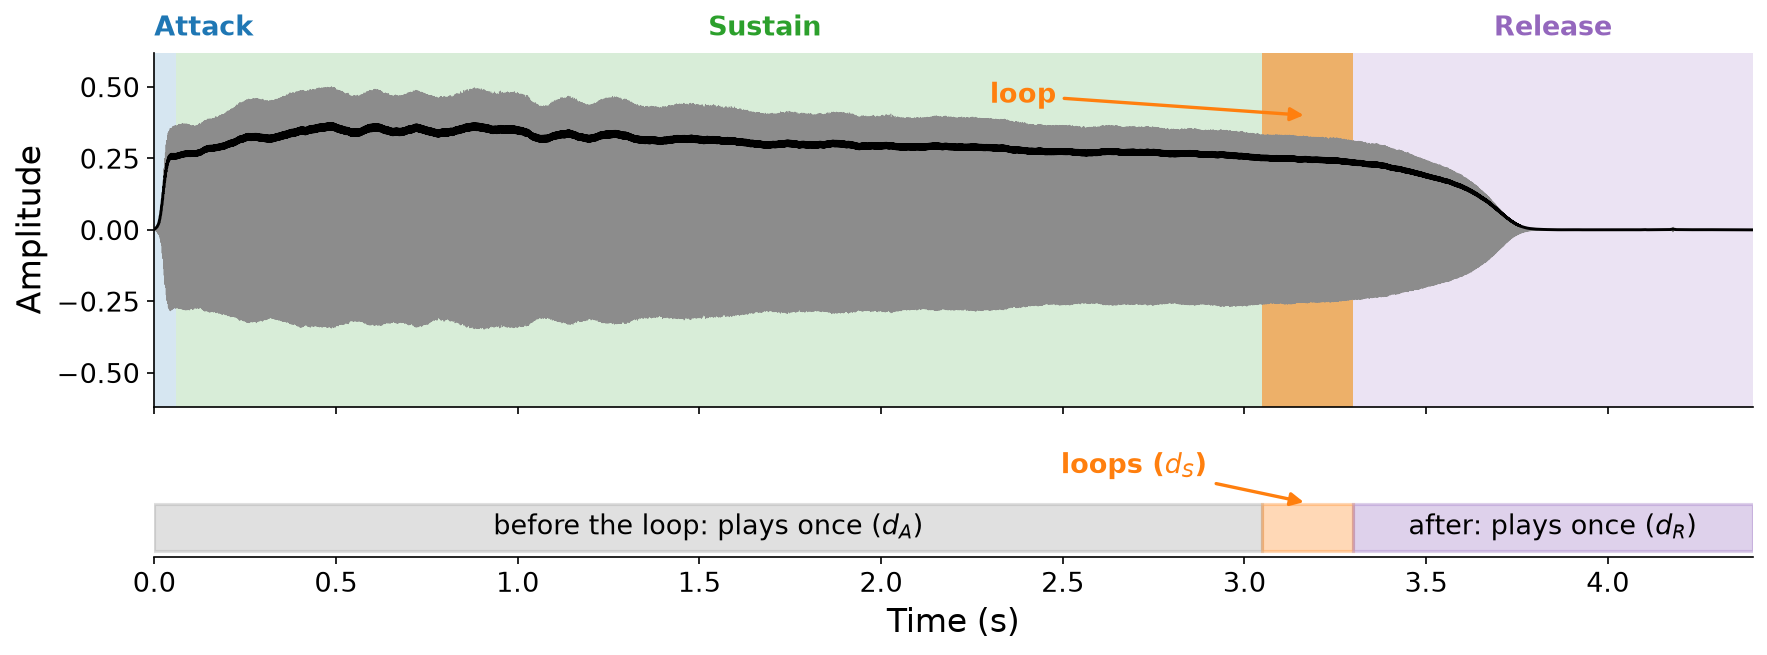
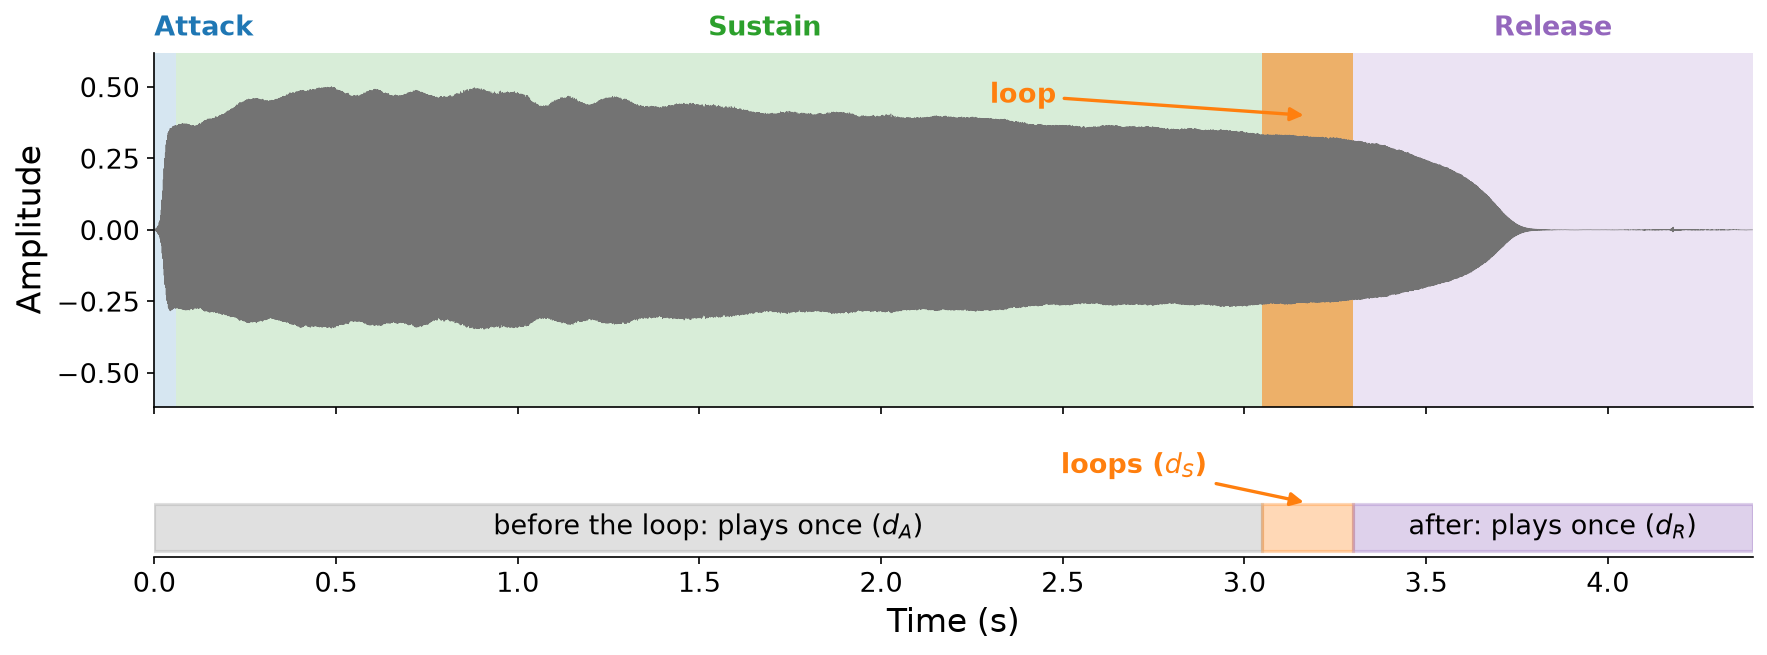
(Chris) edits

Changed region(s): [[0.0623, 0.1221, 0.996, 0.5191]]

diff --git a/11-sampled-synthesis/figures/make_figures.py b/11-sampled-synthesis/figures/make_figures.py
@@ -298,8 +298,6 @@ def default_loop() -> tuple[float, float]:
 def fig_sax_phases(c5: np.ndarray) -> None:
     """The C5 note's phases, and how sample-based synthesis plays them."""
     t = np.arange(len(c5)) / F_S
-    k = int(0.01 * F_S)
-    env = np.sqrt(2 * np.convolve(c5 ** 2, np.ones(k) / k, mode="same"))
     t_s, t_e = default_loop()
     T = t[-1]
 
@@ -317,8 +315,7 @@ def fig_sax_phases(c5: np.ndarray) -> None:
     ax.annotate("loop", xy=((t_s + t_e) / 2, 0.40), xytext=(t_s - 0.75, 0.47),
                 fontsize=13, color=ORANGE, fontweight="bold", va="center",
                 arrowprops=dict(arrowstyle="-|>", color=ORANGE, lw=1.6))
-    ax.plot(t, c5, color="0.55", lw=0.3)
-    ax.plot(t, env, color="black", lw=1.4)
+    ax.plot(t, c5, color="0.45", lw=0.3)
     ax.set_ylabel("Amplitude")
     ax.set_ylim(-0.62, 0.62)
 

diff --git a/11-sampled-synthesis/index.md b/11-sampled-synthesis/index.md
@@ -10,33 +10,37 @@ For our first topic, we will examine {vocab}`sampling` and {vocab}`sample-based 
 
 :::{admonition} "Sampling" is overloaded
 :class: warning
-So far in this book, "sampling" has been shorthand for _digital_ sampling, the step of analog-to-digital conversion that measures a signal $f_s$ times per second ({ref}`Chapter 7 <sec-sampling-and-frequency>`). Likewise, a "sample" has referred to a single audio sample $x[n]$. In this chapter, "sampling" takes on its colloquial meaning: lifting a chunk of audio from one source and reusing it in another context, often with some manipulation. Similarly, a "sample" now refers to a _clip_ of audio, not an individual audio sample. When the distinction matters, we will write "audio sample" for $x[n]$.
+So far in this book, "sampling" has been shorthand for _digital_ sampling, the step of analog-to-digital conversion that measures a signal $f_s$ times per second ({ref}`Chapter 7 <sec-sampling-and-frequency>`). Likewise, a "sample" has referred to a single audio sample $x[n]$.
+
+In this chapter, "sampling" takes on its colloquial meaning: lifting a _clip_ of audio from one source and reusing it in another context, often with some manipulation. Similarly, a "sample" now refers to a clip of audio, not an individual audio sample. When the distinction matters, we will write "audio sample" for $x[n]$.
 :::
 
-We will cover two use cases:
+We will cover two use cases for sampling:
 
 1. **Sampling and sequencing**: extracting samples from recordings and playing them back in new orders and with new timing.
 1. **Sample-based synthesis**: combining recorded samples with _repitching_ to create instruments that can play any pitch.
 
 ## Sampling
 
-We first define precisely what we mean by a sample. Put simply, a sample is a contiguous chunk of audio samples extracted from some source recording.
+We first define precisely what we mean by a sample: a contiguous chunk of audio samples extracted from some source recording.
 
 :::{prf:definition} Sample
 :label: def-sample
-Let $\mathbf{x} = [x[0], x[1], \ldots, x[N-1]]$ be source digital audio at sample rate $f_s$. A _sample_ of $\mathbf{x}$ is a contiguous chunk
+Let $\mathbf{x} = [x[0], x[1], \ldots, x[N-1]]$ be source digital audio at sample rate $f_s$ of length $N$ samples. A _sample_ of $\mathbf{x}$ is a contiguous chunk
 
-$$\mathbf{y} = [x[m], x[m+1], \ldots, x[m+M-1]]$$
+$$[~x[m], x[m+1], \ldots, x[m+M-1]~]$$
 
-of length $M \in \{1, \ldots, N\}$ audio samples, starting at offset $m \in \{0, 1, \ldots, N - M\}$.
+of length $M \leq N$ audio samples, starting at offset $m \in \{0, 1, \ldots, N - M\}$.
 :::
 
-In units of seconds, the sample starts $\frac{m}{f_s}$ seconds into the recording and lasts $\frac{M}{f_s}$ seconds. The upper limit on the offset $m$ keeps the sample inside the recording. Its last audio sample is $x[m + M - 1]$, which exists only if $m + M - 1 \leq N - 1$, that is, if $m \leq N - M$.
+In units of seconds, the sample starts $\frac{m}{f_s}$ seconds into the recording and lasts $\frac{M}{f_s}$ seconds.
 
-We have seen operations like this before. When we extracted {ref}`frames <sec-extracting-frames>` for frame-based processing and {ref}`granular synthesis <sec-granular-synthesis>` in [Chapter 10](../10-frame-proc), each frame was also a contiguous chunk of audio samples. The key difference is _how_ we choose $m$ and $M$. In frame-based processing, they are determined procedurally: the offsets are multiples of the hop length $N_H$, and every frame has the same frame length $N_F$. When sampling, by contrast, a person chooses $m$ and $M$ (the start time and duration of the sample) to capture something musically meaningful, like a single drum hit or a memorable phrase. They typically make this choice _by ear_, or visually by looking at the waveform.
+We have seen operations like this before. When we extracted {ref}`frames <sec-extracting-frames>` for frame-based processing and {ref}`granular synthesis <sec-granular-synthesis>` in [Chapter 10](../10-frame-proc), each frame was also a contiguous chunk of audio samples.
+
+The key difference is _how_ we choose $m$ and $M$. In frame-based processing, they are determined procedurally: the offsets are multiples of the hop length $N_H$, and every frame has the same frame length $N_F$. When sampling, by contrast, a person chooses $m$ and $M$ (the start time and duration of the sample) to capture something musically meaningful, like a single drum hit or a memorable phrase. They typically make this choice _by ear_, or visually by looking at the waveform.
 
 :::{margin} The Amen break
-The Amen break is a seven-second drum solo, played by Gregory C. Coleman on The Winstons - _Amen, Brother_ (1969). Starting with hip-hop in the late 1980s, producers sampled it relentlessly, and it became the rhythmic backbone of entire genres like jungle and drum and bass. It is often called the most sampled recording in history, appearing in thousands of tracks. Yet neither Coleman nor the band's leader, Richard L. Spencer, ever received royalties for its use.
+The Amen break is a seven-second drum solo, played by Gregory C. Coleman on The Winstons - _Amen, Brother_ (1969). Starting with hip-hop in the late 1980s, producers sampled it relentlessly, and it became the rhythmic backbone of entire genres like jungle and drum and bass. It is often called the most sampled recording in history, appearing in thousands of tracks.
 :::
 
 Try it yourself below, using one of the most famous samples of all time: the _Amen break_. Choose an offset $\frac{m}{f_s}$ and a duration $\frac{M}{f_s}$ (both in seconds), and use the zoom to inspect the waveform up close. The audio card updates whenever you release a slider. Can you isolate a single snare drum hit? How about exactly one bar (four beats) of the break?
@@ -46,7 +50,9 @@ Try it yourself below, using one of the most famous samples of all time: the _Am
 
 ### Extracting samples in Pyquist
 
-In Pyquist, extracting a sample is a one-liner. We can work in units of _seconds_ with {pyquist}`Audio.segment`, whose `offset` and `duration` arguments correspond to $\frac{m}{f_s}$ and $\frac{M}{f_s}$. Or we can work in units of _audio samples_ by slicing an {pyquist}`Audio` directly with `audio[m:m + M]`, just like a NumPy array. Below, we extract the second bar of the Amen break both ways. Each beat of the break lasts about $0.436$ seconds, so the second bar starts $4 \times 0.436 = 1.744$ seconds into the recording and lasts just as long:
+In `pyquist`, extracting a sample is a one-liner. We can work in units of _seconds_ with {pyquist}`Audio.segment`, whose `offset` and `duration` arguments correspond to $\frac{m}{f_s}$ and $\frac{M}{f_s}$. Or we can work in units of _audio samples_ by slicing an {pyquist}`Audio` directly with `audio[m:m + M]`, just like a NumPy array.
+
+Below, we extract the second bar of the Amen break both ways. Each beat of the break lasts about $0.436$ seconds, so the second bar starts $4 \times 0.436 = 1.744$ seconds into the recording and lasts just as long:
 
 :::{interactive}[notebooks/extract-samples.ipynb]
 :::
@@ -55,24 +61,30 @@ Both approaches extract the same $M = 76{,}910$ audio samples. Use whichever uni
 
 ## Sequencing
 
-What can we do with samples once we have them? A primary use case is {vocab}`sequencing`: playing samples back in different orders, or with different timing, than in their original recordings. Sequencing is a cornerstone of rhythm production in genres like hip-hop and electronic dance music, where producers build new beats out of fragments of old ones.
+What can we do with samples once we have them? A primary use case is {vocab}`sequencing`: playing samples back in different orders, or with different timing, than in their original recordings. Sequencing is a cornerstone of rhythm production in genres like hip-hop and electronic dance music, where producers build new melodies and beats out of fragments of old ones.
 
-Pyquist's scores make sequencing natural. Recall from {ref}`Chapter 4 <def-render>` that rendering a score calls an _instrument_ function once per event, shifts each result to the event's onset time, and sums them all up. Nothing requires an instrument to synthesize its output from scratch. A function that simply returns a sample is a perfectly good instrument, so a sequence of samples is just a score.
+CLAUDE: change this to directive to link to `Score` object
+Pyquist's scores are a natural fit for sequencing. Recall from {ref}`Chapter 4 <def-render>` that rendering a score calls an _instrument_ function once per event, shifts each result to the event's onset time, and sums them all up. There is no requirement that this function synthesize its output audio from scratch. A function that simply returns a sample is a perfectly good "instrument", so a sequence of samples is just a score. Below, we highlight a couple examples of sequencing using `pyquist` scores.
 
 ### Chopping the Amen break
 
-Our first sequencer rearranges the beats of the Amen break, a practice known as _chopping_. The break lasts 16 beats, each about $0.436$ seconds long. We start with an instrument, `amen_sample(offset, duration)`, that extracts a sample of the break with {pyquist}`Audio.segment`. Cutting a sample out of the middle of a recording can leave abrupt edges, which we hear as clicks. So the instrument also applies a very short piecewise-linear envelope, as in [Chapter 4](../04-score-timbre), that fades in over $1$ ms and fades out over $1$ ms.
+CLAUDE: don't emphasize _chopping_ as vocab, just use it colloquially. also, this is a good time to formally introduce the concept of beats, which we haven't really covered. be succinct about this. a _beat_ (use unit directive) is a symbolic unit of time in music, referring to the underlying pulse (i.e., what you might tap your foot to). beats are particularly expressed in units of beats per minute. here we convert that to seconds per beat. (use unit directives throughout, see section 1.2 for example of the flavor of unit arithmetic I'm expecting to see, no need to do the strikethrough though)
+
+Our first sequencer rearranges the beats of the Amen break, a practice known as _chopping_. The break lasts 16 beats, each about $0.436$ seconds long. We start with an instrument, `amen_sample(offset, duration)`, that extracts a sample of the break with {pyquist}`Audio.segment`, allowing us to control samples with score `Event`s of the form `(2.0, {"offset": 0.0, "duration": 1.0})`. Cutting a sample out of the middle of a recording can leave abrupt edges, which we hear as clicks. So the instrument also applies a very short piecewise-linear envelope, as in [Chapter 4](../04-score-timbre), that fades in over $1$ ms and fades out over $1$ ms.
 
 As a sanity check, a score with one event per beat, each playing that same beat, should reproduce the original break. Then `amen_chop(hits, speed, seed)` builds a new score that plays randomly chosen beats instead, one every $\frac{0.436}{\text{speed}}$ seconds:
 
 :::{interactive}[notebooks/amen-chops.ipynb]
 :::
 
-At a speed of $1.5$, a new hit arrives every $0.29$ seconds, so each hit plays only the first two thirds of its beat. Try other seeds, numbers of hits, and speeds. Breakbeats chopped like this, the Amen break above all, are the signature sound of jungle and drum and bass.
+CLAUDE: note that I changed the speed to something more appropriate for jungle, so update this accordingly. remark on the new BPM as well, following the unit overview above
+At a speed of $1.5$, a new hit arrives every $0.29$ seconds, so each hit plays only the first two thirds of its beat. Try other seeds, numbers of hits, and speeds. Breakbeats chopped like this, the Amen break above all, are the signature sound of [jungle](https://en.wikipedia.org/wiki/Jungle_music) and [drum and bass](https://en.wikipedia.org/wiki/Drum_and_bass).
 
 ### A drum machine
 
-Our second sequencer is a {vocab}`drum machine`. Its interface is a grid of _steps_: each row is a drum sound, each column is a moment in time, and the musician switches individual cells on or off. We can mimic this interface with a few lines of text, where an `X` switches a cell on:
+Our second sequencer is a {vocab}`drum machine`. Its interface is a grid of _steps_: each row is a drum sound, each column is a moment in time corresponding to a subdivision of a beat, and the musician switches individual cells on or off.
+
+In the Python example below, we crudely mimic a typical drum machine interface with a few lines of text, where an `X` switches a cell on:
 
 ```text
 X-X-X-X-X-X-X-X-
@@ -80,27 +92,34 @@ X-X-X-X-X-X-X-X-
 X-------X-------
 ```
 
-Here, the top row is a hi-hat, the middle row is a snare drum, and the bottom row is a kick drum. The function `ascii_to_score` turns such a grid into a score, adding an event at time $j$ for every `X` in column $j$, with the Freesound ID of that row's sound as its only parameter. Our instrument, `freesound(fsid)`, simply returns the corresponding sound. It fetches the sound with {pyquist}`fetch_freesound`, which normally requires a Freesound API key, but this book ships with copies of all three sounds.
+The function `ascii_to_score` turns such a grid into a `Score` object, adding an event at time $j$ for every `X` in column $j$, with the Freesound ID of that row's sound as its only parameter. Our instrument, `freesound(fsid)`, simply fetches and returns the corresponding sound.
 
+CLAUDE: make this consistent w/ the info above about beats. again, concise; don't ramble on at length about beats.
 So far, the times in our scores have always been in seconds. A drum machine instead counts time in steps, so we render the score with a {pyquist}`BasicMetronome`, which converts score times to seconds at a fixed tempo measured in beats per minute (BPM). The columns of a drum machine are typically _sixteenth notes_, four steps per beat. So to play our grid at a tempo of $120$ BPM, the metronome must count $4 \times 120 = 480$ steps per minute, or one step every $125$ ms:
 
+CLAUDE: note that I changed the hi hat sound here. may need to cache it? although I think it already cached, can you git add (stage) the correct subset of assets here? i now have more on my local machine than I would need
 :::{interactive}[notebooks/drum-machine.ipynb]
 :::
 
 Try editing the pattern: move the snare drum, add more kick drums, or change the tempo.
 
+CLAUDE: update this!
 Drum sounds from Freesound: hi-hat [332372](https://freesound.org/s/332372/) by soneproject, License: [CC0](http://creativecommons.org/publicdomain/zero/1.0/). Snare drum [46709](https://freesound.org/s/46709/) by boney-man, License: [Attribution 3.0](http://creativecommons.org/licenses/by/3.0/). Kick drum [673512](https://freesound.org/s/673512/) by TheEndOfACycle, License: [CC0](http://creativecommons.org/publicdomain/zero/1.0/).
 
 ## Sample-based synthesis
 
-Synthesis techniques like {ref}`frequency modulation <sec-frequency-modulation>` were motivated in part by the goal of producing realistic imitations of musical instruments. This turns out to be extremely difficult! As we saw with the trumpet in [Chapter 6](../06-modulation), the harmonics of real instruments evolve in intricate ways over the course of every note. Decades of synthesis research have produced countless compelling sounds, but few that a listener would mistake for the real thing.
+CLAUDE: at a high-level, organization is quite rough here. there are two ideas we want to convey: (1) the idea of recording samples of real instruments as an alternative to computer music synthesis methods, (2) the idea of manipulating those samples if we want to synthesize expressive parameters that we haven't pre-recorded. the transition / connection between them is memory: samples cost memory, and combinatorically more so to record all possible combinations of synthesis parameters (pitch, duration, amplitude, etc.). even w/ memory relatively cheap by modern standards, the combinatorics still make this prohibitively expensive. let's introduce each of those ideas in turn to clean up the exposition here. also, let's include a figure of each. for figure of the first point, compare additive synthesis + envelope recreation of clarinet (see pcm-04-clarinet.ipynb for my attempt, don't include that code just the final audio result) to real clarinet `356904`, w/ expressive parameters pitch=A#5 and duration=6 seconds. include both audio and waveform plots. for second figure, create an image figure with a small 2D grid: rows are durations [1,3,6,9] seconds and columns are pitches w/ A#5 in the middle. cell is either a waveform plot (indicating that we've pre-recorded that combination) or a question mark, indicating that we haven't pre-recorded. put the waveform for the example from the first figure in there, and maybe a couple others, but leave the others as question amrks. point is to emphasize the combinatoric space of possibilities. at some point, explicitly define vocab _sample-based synthesis_: the idea of pre-recording musical material, and applying manipulations on-the-fly to change its expressive parameters
 
+CLAUDE: 
 :::{margin} A brief history
-Sample-based synthesis predates digital audio. Pierre Schaeffer, a pioneer of _musique concrète_, built the _phonogène_, a tape machine whose keyboard changed the playback speed of a tape loop, and with it the pitch. Instruments like the Mellotron later put this idea into mass production. The Fairlight CMI (1979), the first commercially available digital sampler, was marketed as a way to play realistic sounds, like a piano, that the synthesizers of the day could not produce. Memory was scarce: each voice had just 16 kilobytes for its 8-bit samples, at most about two seconds of audio.
+Sample-based synthesis predates both digital audio and sampling. Pierre Schaeffer, a pioneer of [_musique concrète_](https://en.wikipedia.org/wiki/Musique_concr%C3%A8te#The_phonog%C3%A8ne), built the _phonogène_, a tape machine whose keyboard changed the playback speed of a tape loop, and with it the pitch. Instruments like the [Mellotron](https://en.wikipedia.org/wiki/Mellotron) later put this idea into mass production. The [Fairlight CMI](https://en.wikipedia.org/wiki/Fairlight_CMI) (1979), the first commercially available digital sampler, was marketed as a way to play realistic sounds, like a piano, that the synthesizers of the day could not produce. Memory was scarce: each voice had just 16 kilobytes for its 8-bit samples, at most about two seconds of audio.
 :::
 
-With sampling, we can just _cheat_: rather than synthesizing an instrument's sound, we can record the instrument and play the recording back! This was prohibitively expensive in the early days of computer music, when computers could store only a few seconds of audio in memory, or even on disk. These days, it's commonplace. Commercial sample-based instruments often span hundreds of gigabytes, consisting of recordings of the world's finest instruments played by top studio musicians in world-class recording studios.
+Synthesis techniques like {ref}`frequency modulation <sec-frequency-modulation>` were motivated in part by the goal of producing realistic imitations of musical instruments. This turns out to be extremely difficult! As we saw with the trumpet in [Chapter 6](../06-modulation), the harmonics of real instruments evolve in intricate ways over the course of every note. Decades of synthesis research have produced many compelling instrument sounds, but few that a listener would mistake for the real thing.
 
+With sampling, we can just "cheat": rather than synthesizing an instrument's sound, we can record the instrument and play the recording back! This was prohibitively expensive in the early days of computer music, when computers could store only a few seconds of audio in memory. These days, it's commonplace. Commercial sample-based instruments often span hundreds of gigabytes, consisting of recordings of the world's finest instruments played by top studio musicians in world-class recording studios.
+
+CLAUDE: at this point in the exposition, we should still be emphasizing the idea of changing high-level synthesis parameters like pitch and duration, not just pitch. nix the recorder sample in favor of the clarinet sample for consistency.
 The basic idea of sample-based synthesis is to achieve instrument-like control from a single sample:
 
 1. Record an instrument playing a single note.
@@ -108,6 +127,7 @@ The basic idea of sample-based synthesis is to achieve instrument-like control f
 
 For example, here is a single recording of a G5 played on a recorder (the wooden flute familiar from many grade-school music classes), repitched to cover a range of notes:
 
+CLAUDE: move this figure down into the pitch resampling section
 :::{audio-board}
 {audio}`G4 <./assets/audio-recorder-G4.wav>`
 
@@ -126,10 +146,12 @@ A single recording of G5 on a recorder (red), repitched by $k$ steps to play G4,
 
 If you listen closely, you may notice that the lower notes also last longer, and the higher notes are shorter. We will return to this side effect soon.
 
+CLAUDE: rewrite this w.r.t the adjusted exposition above, if needed
+
 Compared to the other synthesis techniques we have studied, sample-based synthesis has several advantages. It is:
 
 - **Extremely realistic**: the output _is_ a recording of the real instrument.
-- **Computationally cheap**: playback is little more than reading numbers from memory.
+- **Computationally cheap**: playback is little more than reading numbers from memory. CLAUDE: it's true that it's cheap, but it's misleading to say it's just reading numbers from memory. we're also consdiering the manipulation here as part of the synthesis algorithm
 - **Easy to implement**: as we will see, its core is just a few lines of code.
 - **Very general**: it works for any tonal sound, from a saxophone to a sung vowel to a car horn.
 
@@ -144,6 +166,7 @@ In the rest of this section, we will develop techniques that overcome some of th
 
 Recall {ref}`wavetable synthesis <sec-wavetable-synthesis>` from [Chapter 3](../03-additive-synthesis), where we stored a single cycle of a waveform in a table. We saw that changing the rate at which we read through the table changes the perceived pitch of the output. We can use the same idea to change the pitch of not just a wavetable, but an entire recorded sample stored on disk! Reading through a recording faster raises its pitch, and reading through it slower lowers it.
 
+CLAUDE: use clarinet instead, from https://freesound.org/people/MTG/packs/20228/.
 As a running example for the rest of this chapter, we will use recordings of a soprano saxophone from the Good-sounds dataset, a collection of single notes played by professional musicians on a variety of instruments, recorded by the Music Technology Group (MTG) at Universitat Pompeu Fabra and [available on Freesound](https://freesound.org/people/MTG/packs/20251/). Here is a single recording of C5, shifted up to E5, G5, and C6 by reading it faster:
 
 :::{audio-list}
@@ -178,12 +201,14 @@ For example, to shift a recording of C4 up to G4 ($k = 7$ steps), we read it $2^
 Recall from [Chapter 7](../07-sampling-theory) that reading a recording faster can also push its highest harmonics past the Nyquist frequency, where they alias. High-quality samplers avoid this by low-pass filtering the recording before reading it faster, much like Pyquist's bandlimited {pyquist}`Audio.resample`.
 :::
 
+CLAUDE: say less... instead of these long-winded paragraphs, can just say that outputs get less realistic as $|k|$ gets larger without additional explanation, so in practice, can pre-record a few different frequencies and resample the one closest to the target frequency.
 In theory, a single recording can now be shifted to any pitch. In practice, the larger $|k|$ is, the more unrealistic the result sounds. One reason is that resampling scales _every_ frequency in the recording by the same factor, including features of the sound that stay put on a real instrument as its pitch changes, like the resonances of its body. This is why a voice sped up by an octave sounds like a chipmunk, rather than a higher-pitched singer. Another reason is the side effect on duration: shifting by $k$ steps also scales the duration of the recording by $2^{-k/12}$. For example, a note shifted up an octave has an attack twice as fast as the real instrument's.
 
 So in practice, sample-based instruments are built from recordings of several pitches across the range of the instrument, and they shift whichever recording is closest to each requested pitch, keeping $|k|$ small. This practice is called {vocab}`multisampling`, and it is one reason why commercial sample libraries are so large.
 
 The code below implements repitching. The function `resample(x, ratio)` reads `x` at `ratio` times its original speed with linear interpolation, keeping the output sample rate the same. It is just like the wavetable reader of Chapter 3, minus the wraparound. Then, `repitch(x, k)` shifts the pitch of `x` by $k$ steps by resampling it with a ratio of $2^{k/12}$. We use these functions to play an arpeggio in two ways: (1) by repitching a single C5 recording from the middle of the saxophone's range, and (2) by repitching whichever of three recordings (C4, C5, and C6) is closest to each note:
 
+CLAUDE: forget about multisampling in this example. too complicated. simplfiy this example and move it up above the note about multisampling. remove any handling for duration. i _want_ durations to be changed in this example. better for demonstration purposes. remove `cut_off` function. make it a single cell w/ just `resample`, `repitch`, and `clarinet(pitch: str)` function which loads the clarinet sound and calls `repitch` on it. it's okay if notes bleed into one another during playback as a consequence (don't mention the bleeding explicitly to readers).
 :::{interactive}[notebooks/repitch.ipynb]
 :::
 
@@ -197,19 +222,24 @@ Recall from {ref}`Chapter 4 <sec-envelope-phases>` that the notes of real instru
 
 The key insight comes from how these phases behave as duration changes. When the same instrument plays notes of two different durations, the attack, decay, and release are roughly the same in both. Only the sustain is elongated (or shortened). This suggests a strategy: keep the attack and release of the recording as they are, identify a portion of the recorded sustain, and _loop_ it, repeating it as many times as needed to reach the desired duration:
 
+CLAUDE: switch this to clarinet sound for consistency
 :::{figure}
-![Top: the waveform of the saxophone's C5 note over about 4.4 seconds, with its envelope traced in black, and shaded regions marking a brief attack, a long sustain, and a release that begins at 3.3 seconds. An orange band labeled loop marks the last quarter second of the sustain. Bottom: a bar dividing the same timeline into a gray region before the loop labeled plays once (d_A), the orange loop region labeled loops (d_S), and a purple region after the loop labeled plays once (d_R).](./assets/fig-sax-phases.png)
+![Top: the waveform of the saxophone's C5 note over about 4.4 seconds, with shaded regions marking a brief attack, a long sustain, and a release that begins at 3.3 seconds. An orange band labeled loop marks the last quarter second of the sustain. Bottom: a bar dividing the same timeline into a gray region before the loop labeled plays once (d_A), the orange loop region labeled loops (d_S), and a purple region after the loop labeled plays once (d_R).](./assets/fig-sax-phases.png)
 
 The saxophone's C5 note (top), shaded by phase: a quick attack, a long sustain that slowly fades, and a release. (This note's attack flows directly into its sustain, with no distinct decay.) To play a longer note (bottom), everything before the loop plays once, the loop repeats, and everything after the loop, including the release, plays once.
 :::
 
+CLAUDE: these need to be standardized between chapters 4 and here. I like $T, T_A, T_D, T_R$ for full length, attack, duration, release respectively. make that change here and in chapter 4. actually, we don't even need these here. it's confusing to refer to $t_s = T_A$, because $t_s$ includes both the attack, decay, adn part of the sustain potentially. instead, just refer to it as $t_s$. I don't think we have to refer to $T_A, T_D$, etc. at all here, but if we do, make them consistent with those and update chapter 4 anyway. duration should be $T$ not $d$
 Let's formalize this. We choose a {vocab}`sustain loop` spanning the time range $[t_s, t_e)$ of a recording that lasts $T$ seconds. This splits the recording into three parts: everything before the loop, lasting $d_A = t_s$ seconds, the loop itself, lasting $d_S = t_e - t_s$ seconds, and everything after the loop, lasting $d_R = T - t_e$ seconds. To play a note of duration $d$, the loop must repeat
 
 $$n = \frac{d - (d_A + d_R)}{d_S}$$
 
 times, which we round to the nearest whole number. For example, our C5 recording lasts $T \approx 4.4$ seconds, and the loop in the figure above spans from $t_s \approx 3.05$ to $t_e = 3.3$ seconds. So $d_A \approx 3.05$, $d_S \approx 0.25$, and $d_R \approx 1.1$ seconds, and a note lasting $d = 8$ seconds needs $n \approx \frac{8 - 4.15}{0.25} = 15.4$, or $15$ repetitions of the loop.
 
-Where exactly should the loop begin and end? Within the sustain, the waveform is nearly periodic, repeating at the note's fundamental frequency $f_0$. For the loop to repeat seamlessly, the waveform at its end should flow smoothly back into the waveform at its start. The loop spans
+CLAUDE: this is under-emphasizing the key point: that the loop will be in units of _samples_, and the fundamental frequency is unlikely to be an integer number of samples.
+CLAUDE: from here on to the end of this subsection should be like two paragraphs at most. just want to very concisely explain the issue of non-integer $f_0$ in units of samples, and the workarounds (selecting multiple periods, crossfading). then, show the the final code example with `clarinet(pitch: str, duration: float)`. crossfading should not be formalized or included in the code example, it's not helpful for building intuition, just explain informally and show a figure of the idea. don't need sound examples.
+
+Where exactly should the loop begin and end? Within the sustain, the waveform is quasi-periodic, repeating at the note's fundamental frequency $f_0$. For the loop to repeat seamlessly, the waveform at its end should flow smoothly back into the waveform at its start. The loop spans
 
 $$c \left[{unit}`cycles`\right] = f_0 \left[{unit}`cycles,second`\right] \cdot (t_e - t_s) \left[{unit}`seconds`\right]$$
 
@@ -255,6 +285,8 @@ In practice, loop points are usually tuned by ear. Sustains are never perfectly 
 What happens if you make the loop only a few cycles long? Even a tiny mismatch then repeats more than a hundred times per second, adding a buzz to the note.
 
 ### Changing dynamics
+
+CLAUDE: this should be greatly condensed, down to like two paragraphs. forget about explaining the low pass in detail. organization: (1) want to control loudness from [0, 1] (cut velocity for now since we haven't introduced), simple way is to map [eps, 1] to [-80, 0] dB and then map 0 to -inf dB, (2) show final code example with `clarinet(pitch, duration, loudness)`, (3) mention very briefly at the end that readers can also explore low pass filtering as a function of loudness 
 
 The final musical property we will control is a note's {vocab}`dynamics`: how loudly it is played. Synthesizers typically express dynamics as a {vocab}`velocity` $v \in (0, 1]$, named after the speed with which a key is struck on a keyboard. (We will meet this convention again when we study MIDI in [Chapter 16](../16-compression-midi).) The simplest way to change dynamics is to multiply the note by $v$:
 
@@ -377,6 +409,7 @@ $8$ times
 :::
 ::::
 
+CLAUDE: cut this one
 ::::{exercise}
 **Crossfade constraints.** You place a sustain loop very early in a note, starting at $t_s = 20$ ms, and request a $30$ ms crossfade. Why does the crossfade from this chapter fail? State the condition that the loop start and the crossfade length must satisfy.
 
@@ -385,6 +418,7 @@ The crossfade blends in the audio just _before_ the loop start, so it needs $30$
 :::
 ::::
 
+CLAUDE: make this question standalone. don't make the reader refer back to the drum machine.
 ::::{exercise}
 **Drum machine tempo.** The drum machine from this chapter plays one column per sixteenth note, or four steps per beat.
 
@@ -401,6 +435,7 @@ The crossfade blends in the audio just _before_ the loop start, so it needs $30$
 :::
 ::::
 
+CLAUDE: cut this
 :::{exercise}
 **Dynamics.** Explain why scaling the amplitude of a recorded note is not enough to convincingly imitate the same note played more softly. What does adding a low-pass filter contribute? Why should its cutoff frequency change _exponentially_, rather than linearly, with velocity?
 :::
@@ -409,19 +444,19 @@ The crossfade blends in the audio just _before_ the loop start, so it needs $30$
 
 ### Pierre Schaeffer and Pierre Henry - _Symphonie pour un homme seul_ (1950)
 
-A landmark of _musique concrète_, the movement that first made music by collaging recorded sounds. Schaeffer and Henry built this "symphony for one man alone" from recordings of the human body (breathing, footsteps, voices, and whistling) alongside fragments of instrumental sounds. In this era, sampling and sequencing meant physically manipulating recordings on discs and magnetic tape, decades before digital samplers existed.
+A landmark of _musique concrète_, the movement that first made music by collaging recorded sounds. Schaeffer and Henry built this "symphony for one man alone" from recordings of the human body (breathing, footsteps, voices, and whistling) alongside fragments of instrumental sounds. In this era, sampling and sequencing meant physically manipulating recordings on magnetic tape, decades before digital samplers existed.
 
 <iframe width="560" height="315" src="https://www.youtube-nocookie.com/embed/MOYNFu45khQ" title="YouTube video player" frameborder="0" allow="accelerometer; autoplay; clipboard-write; encrypted-media; gyroscope; picture-in-picture; web-share" referrerpolicy="strict-origin-when-cross-origin" allowfullscreen></iframe>
 
 ### Tracklib - _The Most Iconic Hip-Hop Sample of Every Year_ (1973–2023)
 
-Hip-hop was built on sampling and sequencing, beginning with DJs who extended the drum breaks of funk and soul records by looping them on two turntables. This video surveys fifty years of the genre through one iconic sample per year, showing how producers have chopped, looped, and re-sequenced fragments of older recordings into new music.
+Hip-hop artists pioneered the modern practice of sampling and sequencing, beginning with DJs who extended the drum breaks of funk and soul records by looping them on two turntables. This video surveys fifty years of the genre through one iconic sample per year, showing how producers have chopped, looped, and re-sequenced fragments of older recordings into new music.
 
 <iframe width="560" height="315" src="https://www.youtube-nocookie.com/embed/hIGNaDk9eIA" title="YouTube video player" frameborder="0" allow="accelerometer; autoplay; clipboard-write; encrypted-media; gyroscope; picture-in-picture; web-share" referrerpolicy="strict-origin-when-cross-origin" allowfullscreen></iframe>
 
 ### The Avalanches - _Frontier Psychiatrist_ (2000)
 
-The Avalanches' debut album, _Since I Left You_, is built almost entirely from samples, so many that even the band was unsure how many. _Frontier Psychiatrist_ sequences dialogue from a comedy sketch of the same name by Wayne and Shuster over an orchestral backing sampled from an Enoch Light record, along with dozens of other fragments, into a surreal and catchy collage.
+The Avalanches' debut album, _Since I Left You_, is built almost entirely from samples. The track _Frontier Psychiatrist_ sequences dialogue from a comedy sketch of the same name over an orchestral backing sampled from an Enoch Light record, among [dozens of other sampled fragments](https://www.whosampled.com/The-Avalanches/Frontier-Psychiatrist/samples).
 
 <iframe width="560" height="315" src="https://www.youtube-nocookie.com/embed/qLrnkK2YEcE" title="YouTube video player" frameborder="0" allow="accelerometer; autoplay; clipboard-write; encrypted-media; gyroscope; picture-in-picture; web-share" referrerpolicy="strict-origin-when-cross-origin" allowfullscreen></iframe>
 
@@ -433,6 +468,6 @@ Watch Herbie Hancock and Quincy Jones experiment with the Fairlight CMI, the ear
 
 ### clipping. - _Williams Mix_ (2014)
 
-The experimental hip-hop group clipping. closes its album _CLPPNG_ with a version of John Cage's _Williams Mix_ (1952), a pioneering tape piece built from hundreds of fragments of recorded sound, spliced together according to a score that Cage composed with chance operations. Computer musician Tom Erbe, who recreated Cage's piece in software from its original score, realized this version using fragments of the album's own tracks as source material. The result is sampling and sequencing, with the sequence dictated by Cage's score.
+The experimental hip-hop group clipping. closes its album _CLPPNG_ with a version of [John Cage's _Williams Mix_](https://en.wikipedia.org/wiki/Williams_Mix) (1952), a pioneering tape piece built from hundreds of fragments of recorded sound, spliced together according to a score that Cage composed with chance operations. Computer musician Tom Erbe, who recreated Cage's piece in software from its original score, realized this version using fragments of the album's own tracks as source material. The result is sampling and sequencing, with the sequence dictated by Cage's score.
 
 <iframe width="560" height="315" src="https://www.youtube-nocookie.com/embed/_YmTrYYUVzc" title="YouTube video player" frameborder="0" allow="accelerometer; autoplay; clipboard-write; encrypted-media; gyroscope; picture-in-picture; web-share" referrerpolicy="strict-origin-when-cross-origin" allowfullscreen></iframe>
